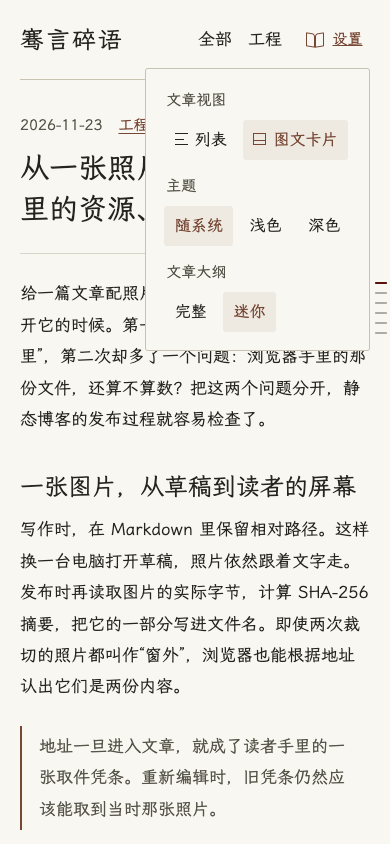
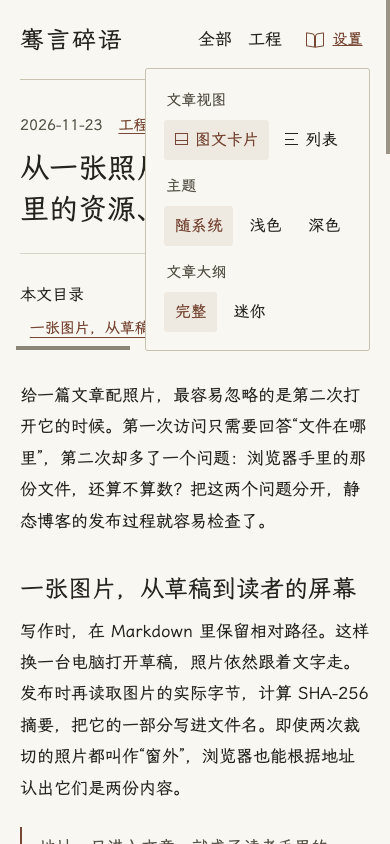
feat: open reading settings on hover and default to cards

diff --git a/README.md b/README.md
@@ -1,6 +1,6 @@
 # 骞言碎语 · qians.day
 
-Astro 静态内容站。首页和分类页默认按年份、日期展示文章标题。页首阅读设置可全站切换列表、图文卡片和主题。分类、文章、RSS 和 Sitemap 共用同一份已发布文章查询。
+Astro 静态内容站。首页和分类页默认按年份、日期展示图文卡片。页首阅读设置可切换图文卡片与标题列表、主题和文章大纲。主题默认随系统，大纲默认完整。分类、文章、RSS 和 Sitemap 共用同一份已发布文章查询。
 
 ## 本地运行
 
